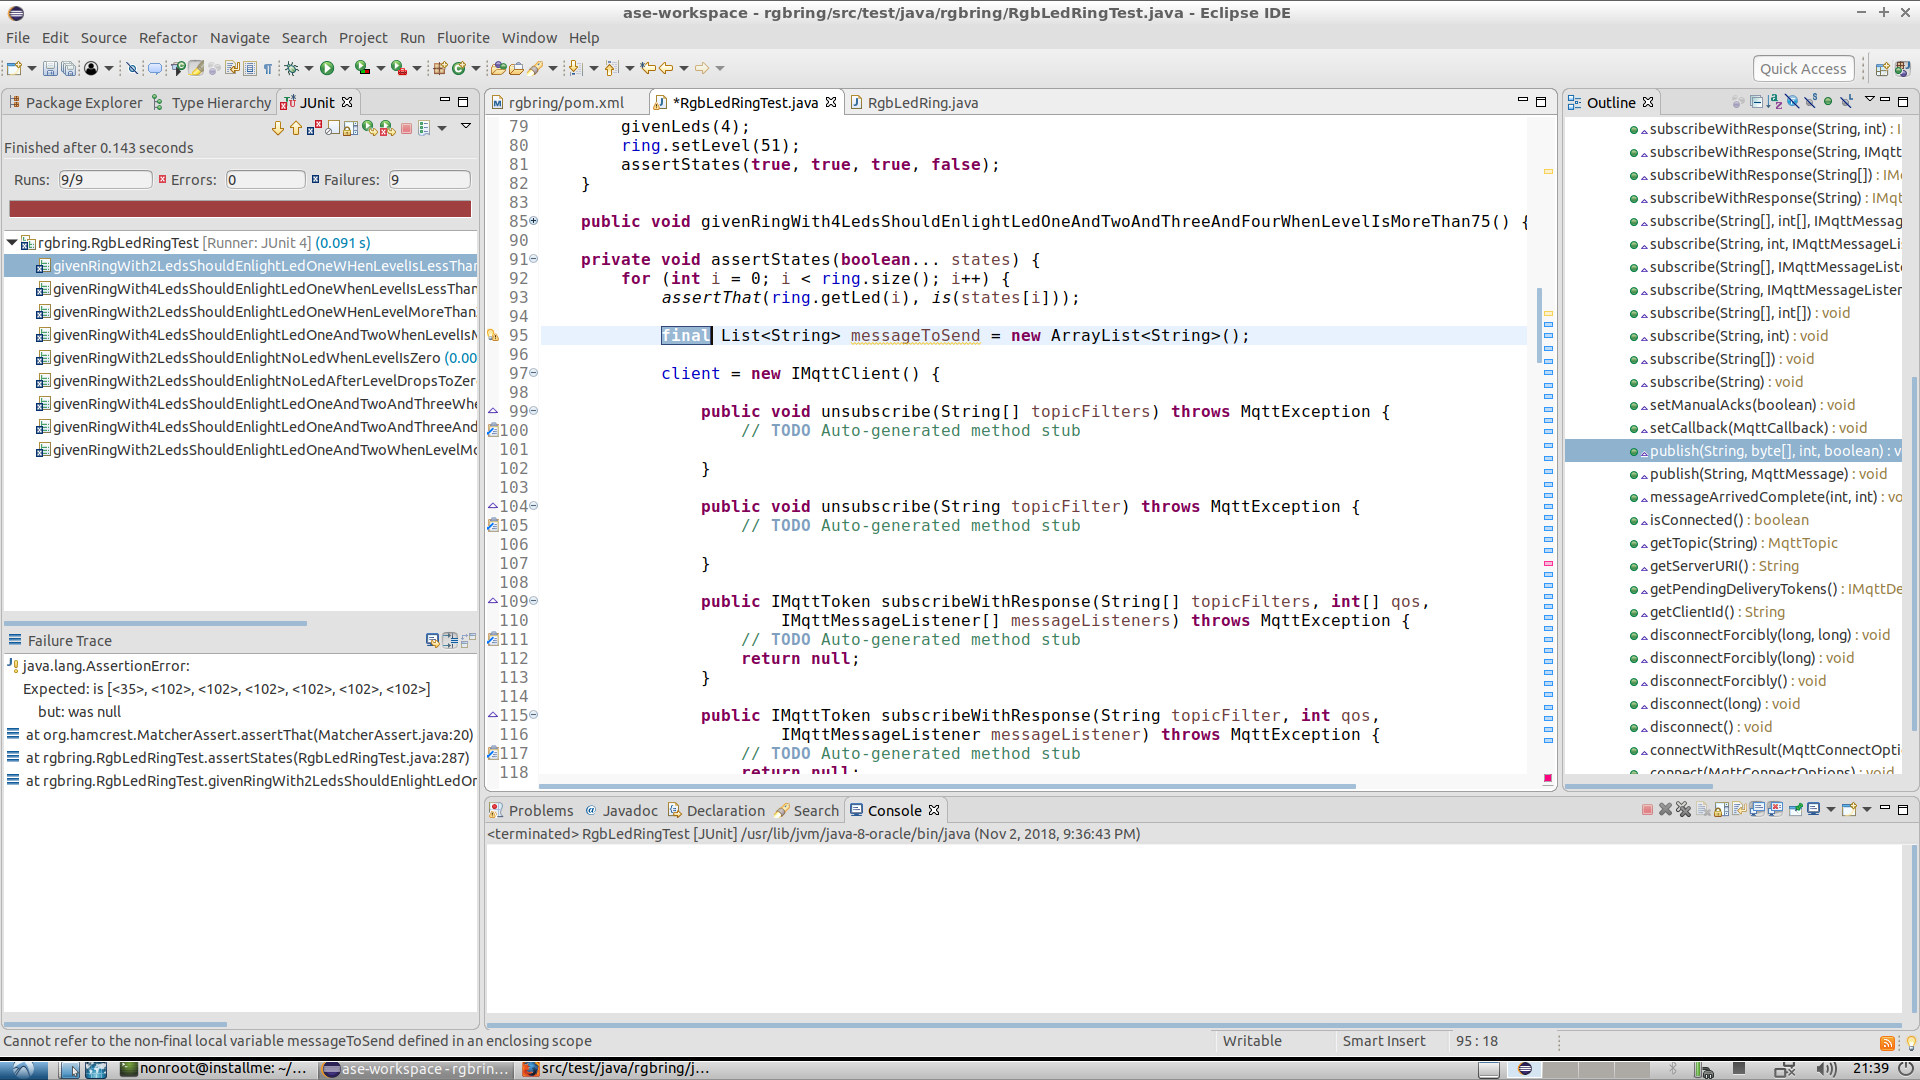
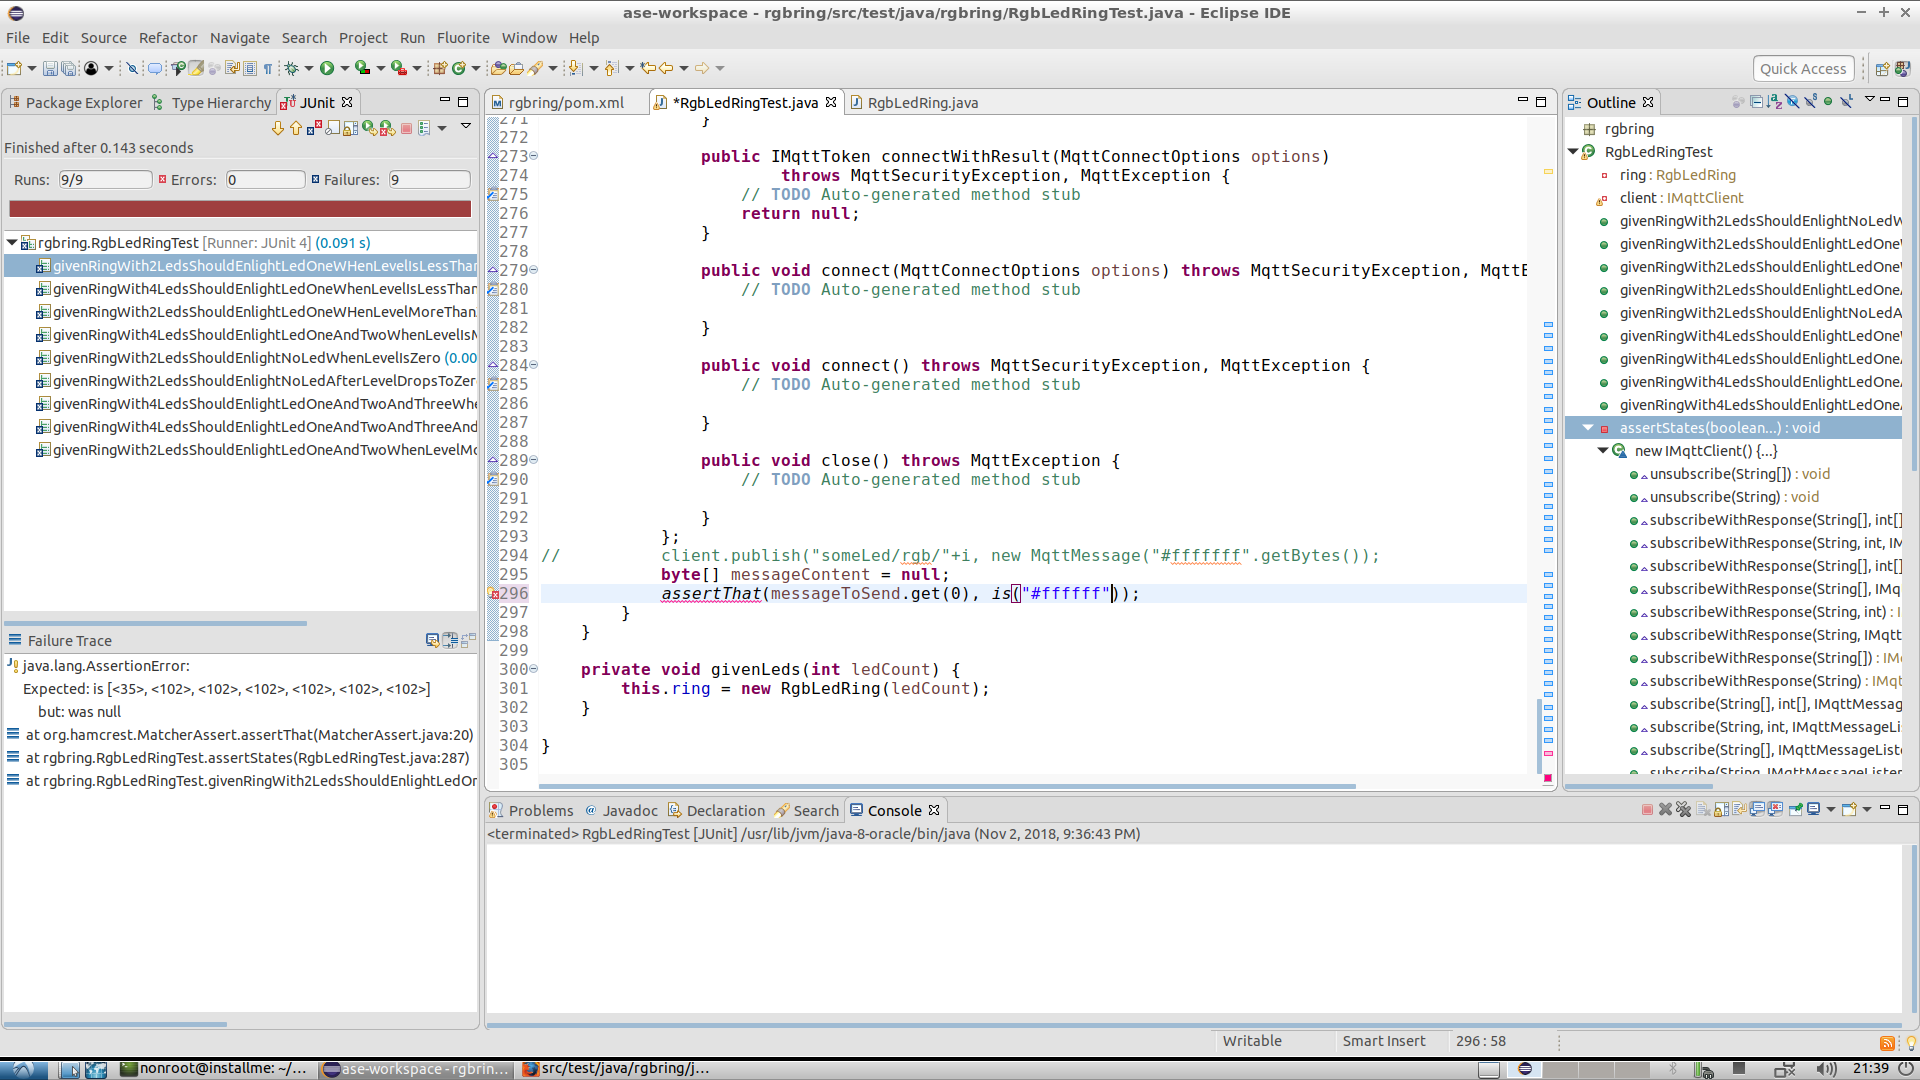
autocommit on change

diff --git a/src/test/java/rgbring/RgbLedRingTest.java b/src/test/java/rgbring/RgbLedRingTest.java
@@ -293,7 +293,7 @@ public class RgbLedRingTest {
 			};
 //			client.publish("someLed/rgb/"+i, new MqttMessage("#fffffff".getBytes());
 			byte[] messageContent = null;
-			assertThat(messageContent, is("#ffffff".getBytes()));
+			assertThat(messageToSend.get(0), is("#ffffff"));
 		}
 	}
 
